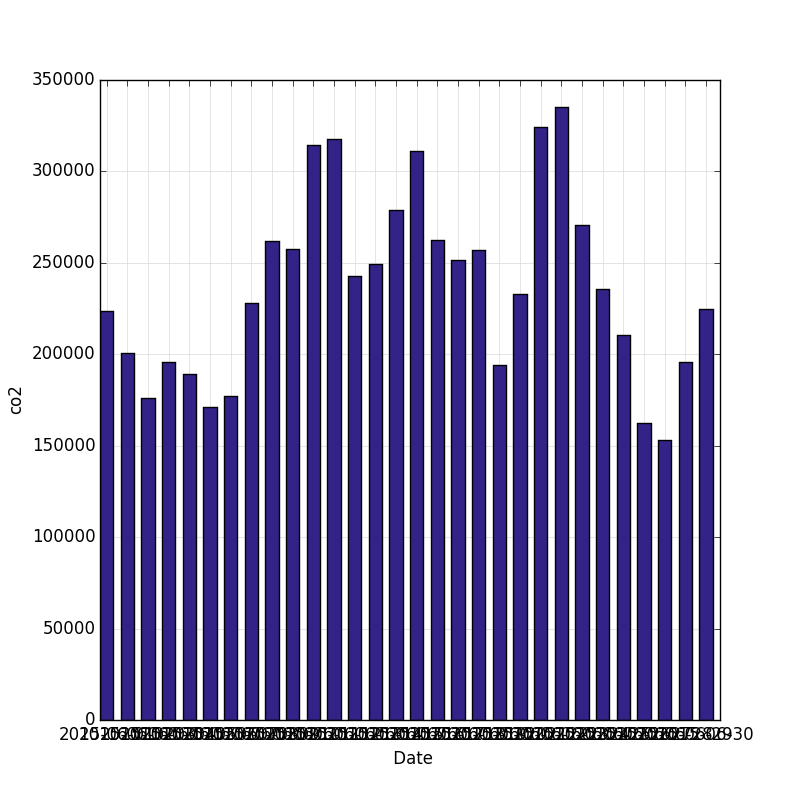
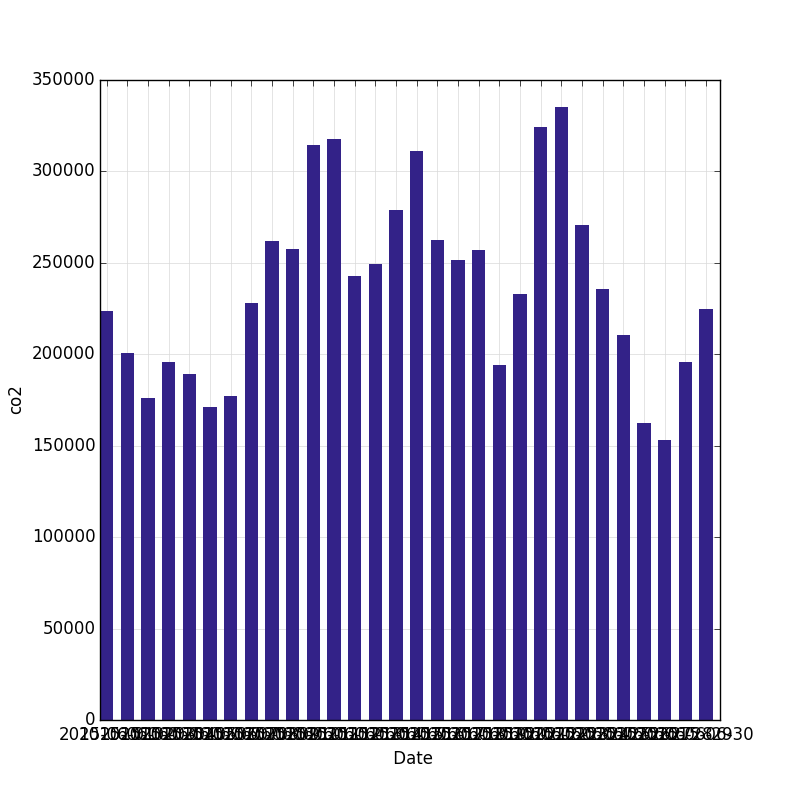
Kill outlines around bars and columns.

Changed region(s): [[0.125, 0.125, 0.9062, 0.9062]]

diff --git a/agatecharts/utils.py b/agatecharts/utils.py
@@ -1,0 +1,48 @@
+#!/usr/bin/env python
+
+from decimal import ROUND_CEILING, ROUND_FLOOR
+
+def round_limit(n):
+    """
+    Round a axis minimum or maximum to a suitable break point.
+    """
+    magnitude = n.log10().to_integral_exact(rounding=ROUND_FLOOR)
+    fraction = (n / (10 ** magnitude))
+
+    limit = fraction.to_integral_exact(rounding=ROUND_CEILING) * (10 ** magnitude)
+
+    # If value fits within a half magnitude, break there
+    if (fraction % 1 < 0.5):
+        limit -= (10 ** magnitude) / 2
+
+    return limit
+
+def round_limits(x_min, x_max, y_min, y_max):
+    """
+    Round off a set of axis limits so they have appropriate margins.
+    """
+    if x_min is not None:
+        if x_min < 0:
+            x_min = round_limit(x_max)
+        else:
+            x_min = 0
+
+    if x_max is not None and x_max != 0:
+        if x_max > 0:
+            x_max = round_limit(x_max)
+        else:
+            x_max = 0
+
+    if y_min is not None:
+        if y_min < 0:
+            y_min = round_limit(x_max)
+        else:
+            y_min = 0
+
+    if y_max is not None:
+        if y_max > 0:
+            y_max = round_limit(y_max)
+        else:
+            y_max = 0
+
+    return (x_min, x_max, y_min, y_max)

diff --git a/agatecharts/charts/columns.py b/agatecharts/charts/columns.py
@@ -56,6 +56,7 @@ class Columns(Chart):
                 value_column,
                 bar_width,
                 color=colors.next(),
+                linewidth=0,
                 label=value_column_name
             )
 

diff --git a/agatecharts/charts/bars.py b/agatecharts/charts/bars.py
@@ -60,6 +60,7 @@ class Bars(Chart):
                 value_column,
                 bar_height,
                 color=colors.next(),
+                linewidth=0,
                 label=value_column_name
             )
 
